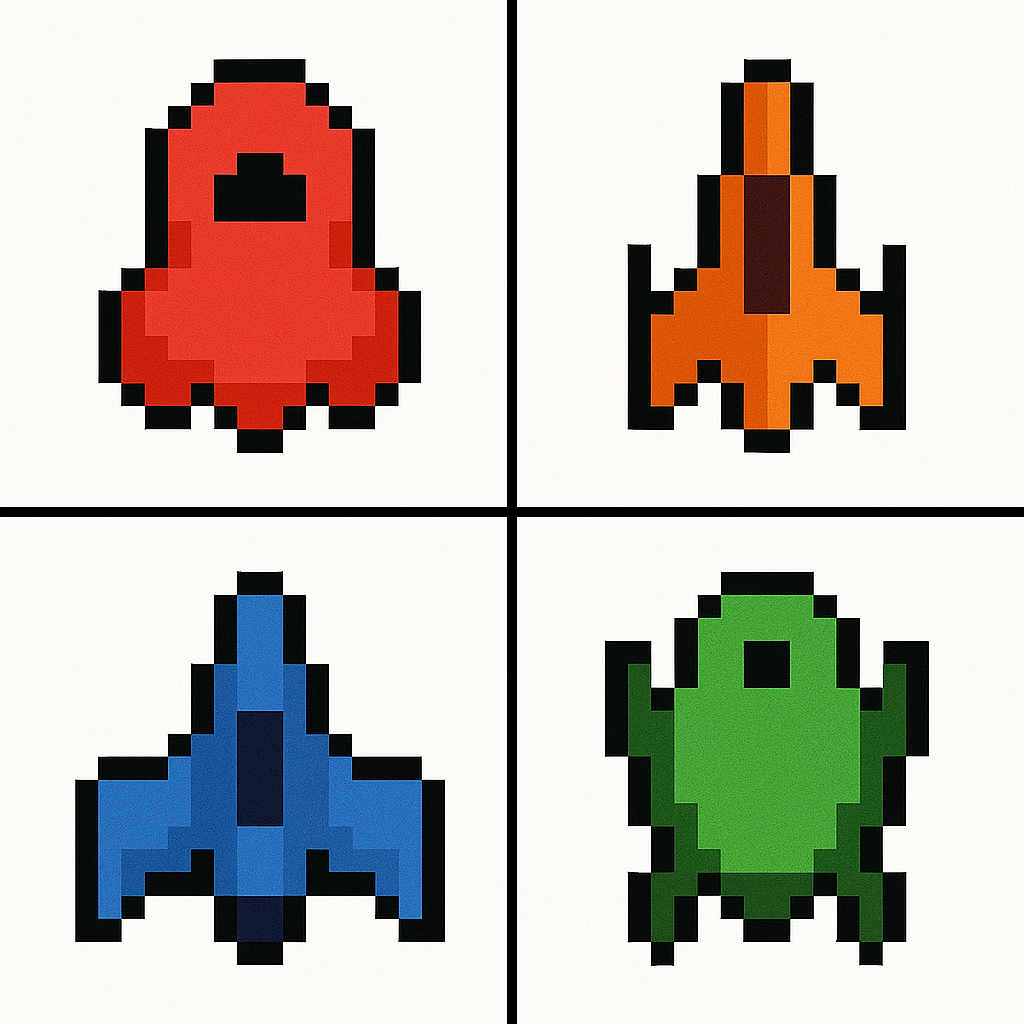
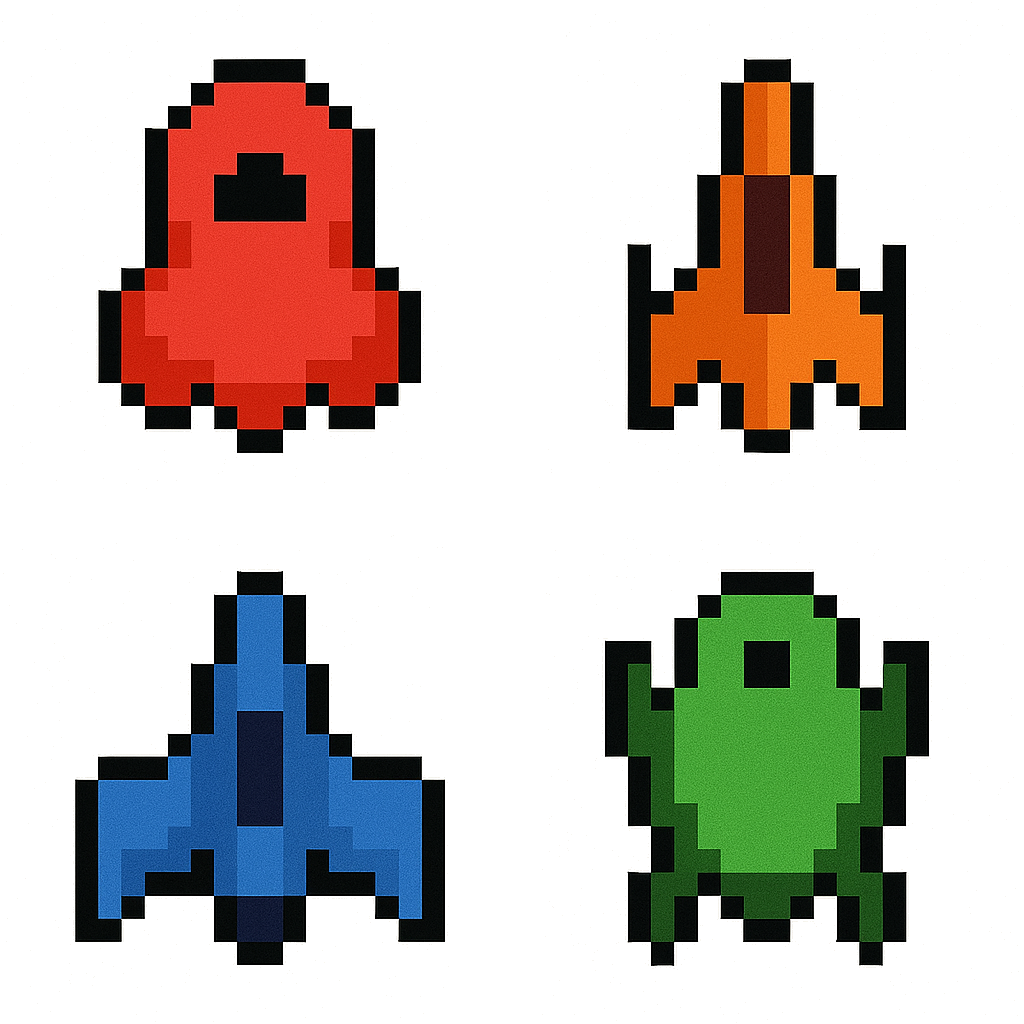
boss戦の追加

Changed region(s): [[0.0, 0.0, 1.0, 1.0]]

diff --git a/spriteLoader.js b/spriteLoader.js
@@ -1,43 +1,85 @@
 export class SpriteSheetLoader {
-    
-  constructor(imagePath, spriteWidth, spriteHeight) {
+  constructor(imagePath, cols, rows) {
     this.image = new Image();
-    this.image.src = imagePath;
-    this.spriteWidth = spriteWidth;
-    this.spriteHeight = spriteHeight;
+    this.cols = cols;
+    this.rows = rows;
     this.loaded = false;
 
-this.image.onload = () => {
-  this.loaded = true;
-  console.log("✅ enemy.png loaded successfully");
-};
-this.image.onerror = () => {
-  console.error("❌ Failed to load enemy.png");
-};
+    this.spriteWidth = 0;
+    this.spriteHeight = 0;
 
+    this.processedImage = null;  // 透過処理済み画像
+
+    this.image.onload = () => {
+      this.spriteWidth = this.image.width / this.cols;
+      this.spriteHeight = this.image.height / this.rows;
+      console.log(`✅ Image loaded: ${this.image.width}x${this.image.height}`);
+      console.log(`🧩 Sprite size: ${this.spriteWidth}x${this.spriteHeight}`);
+
+      // 白背景透過処理
+      this.processedImage = this.removeWhiteBackground(this.image);
+      this.loaded = true;
+    };
+
+    this.image.onerror = () => {
+      console.error("❌ Failed to load image:", imagePath);
+    };
+
+    this.image.src = imagePath;
   }
 
-drawSprite(ctx, spriteIndex, x, y, width, height) {
-  if (!this.loaded) {
-    console.log("❌ Image not loaded yet");
-    return;
+  /**
+   * 白い背景 (#ffffff) を透明にする
+   */
+  removeWhiteBackground(img) {
+    const offCanvas = document.createElement("canvas");
+    offCanvas.width = img.width;
+    offCanvas.height = img.height;
+    const offCtx = offCanvas.getContext("2d");
+
+    offCtx.drawImage(img, 0, 0);
+    const imageData = offCtx.getImageData(0, 0, img.width, img.height);
+    const data = imageData.data;
+
+    for (let i = 0; i < data.length; i += 4) {
+      const r = data[i];
+      const g = data[i + 1];
+      const b = data[i + 2];
+      // 完全な白 (#ffffff) を透明に
+      if (r === 255 && g === 255 && b === 255) {
+        data[i + 3] = 0; // alpha = 0
+      }
+    }
+
+    offCtx.putImageData(imageData, 0, 0);
+
+    // 新しい Image オブジェクトに変換
+    const resultImage = new Image();
+    resultImage.src = offCanvas.toDataURL();
+    return resultImage;
   }
 
-  const cols = Math.floor(this.image.width / this.spriteWidth);
-  const sx = (spriteIndex % cols) * this.spriteWidth;
-  const sy = Math.floor(spriteIndex / cols) * this.spriteHeight;
+  drawSprite(ctx, spriteIndex, x, y, width, height) {
+    this.drawRotatedSprite(ctx, spriteIndex, x, y, width, height, 0);
+  }
 
-  console.log(`🎯 Drawing sprite: index=${spriteIndex}, cols=${cols}`);
-  console.log(`📐 Source: sx=${sx}, sy=${sy}, sw=${this.spriteWidth}, sh=${this.spriteHeight}`);
-  console.log(`🖼 Image size: ${this.image.width}x${this.image.height}`);
-  console.log(`📍 Destination: x=${x}, y=${y}, w=${width}, h=${height}`);
+  drawRotatedSprite(ctx, spriteIndex, x, y, width, height, angleRad) {
+    if (!this.loaded || !this.processedImage) {
+      console.warn("⏳ Image not loaded yet");
+      return;
+    }
 
-  ctx.drawImage(
-    this.image,
-    sx, sy, this.spriteWidth, this.spriteHeight,
-    x, y, width, height
-  );
-}
+    const sx = (spriteIndex % this.cols) * this.spriteWidth;
+    const sy = Math.floor(spriteIndex / this.cols) * this.spriteHeight;
 
-
+    ctx.save();
+    ctx.translate(x + width / 2, y + height / 2);
+    ctx.rotate(angleRad);
+    ctx.drawImage(
+      this.processedImage,
+      sx, sy, this.spriteWidth, this.spriteHeight,
+      -width / 2, -height / 2, width, height
+    );
+    ctx.restore();
+  }
 }

diff --git a/main.js b/main.js
@@ -8,8 +8,9 @@ import { HP } from './hp.js';
 import { Boss } from './boss.js';
 import { Explosion } from './explosion.js';
 import { SpriteSheetLoader } from './spriteLoader.js';
-export const spriteLoader = new SpriteSheetLoader("image/enemy.png", 32, 32); 
-
+import { TitleScreen } from './titleScreen.js';
+export const spriteLoader = new SpriteSheetLoader("image/enemy.png", 2, 2); 
+export const bossSprite = new SpriteSheetLoader("image/dragon.png", 1, 1);
 
 const canvas = document.getElementById("gameCanvas");
 const ctx = canvas.getContext("2d");
@@ -17,6 +18,7 @@ const ctx = canvas.getContext("2d");
 const player = new Player(canvas.width / 2 - 10, canvas.height - 50);
 const score = new Score();
 const hp = new HP(3);
+const titleScreen = new TitleScreen(ctx, ["Start Game", "Exit", "Settings"]);
 
 let bullets = [];
 let enemies = [];
@@ -24,7 +26,6 @@ let boss = null;
 let bossSpawned = false;
 
 let explosions = []; // 爆発エフェクト用
-
 
 let gameState = "title";  // "title", "playing", "gameover", "clear"
 
@@ -36,6 +37,7 @@ setInterval(() => {
     enemies.push(spawnEnemy(canvas.width));
   }
 }, 1000);
+
 
 function update() {
   if (gameState !== "playing") return;
@@ -134,15 +136,12 @@ if (boss) {
 
 }
 
+// 🔁 draw 関数を修正
 function draw() {
-  ctx.clearRect(0, 0, canvas.width, canvas.height); // ← 必ず最初にクリア！
+  ctx.clearRect(0, 0, canvas.width, canvas.height);
 
   if (gameState === "title") {
-    ctx.fillStyle = "white";
-    ctx.font = "28px sans-serif";
-    ctx.fillText("NEO STAR BATTLE", canvas.width / 2 - 140, canvas.height / 2 - 40);
-    ctx.font = "20px sans-serif";
-    ctx.fillText("Press Enter to Start", canvas.width / 2 - 100, canvas.height / 2 + 10);
+    titleScreen.draw();  // ← クラスのメソッドを呼ぶ
     return;
   }
 
@@ -152,7 +151,7 @@ function draw() {
   if (boss) boss.draw(ctx);
   score.draw(ctx);
   hp.draw(ctx, canvas.width);
-  explosions.forEach(e => e.draw(ctx)); // ← ここに移動！
+  explosions.forEach(e => e.draw(ctx));
 
   if (gameState === "gameover") {
     ctx.fillStyle = "white";
@@ -168,6 +167,7 @@ function draw() {
 }
 
 
+
 function loop() {
   if (gameState === "playing") {
     update();
@@ -178,17 +178,25 @@ function loop() {
 
 loop();
 
-document.addEventListener("keydown", (e) => {
-  if (e.code === "Space" && gameState === "playing") {
-    bullets.push(new Bullet(player.x + player.width / 2 - 2, player.y));
-  }
 
-  if (e.code === "Enter") {
-    if (["title", "gameover", "clear"].includes(gameState)) {
+document.addEventListener("keydown", (e) => {
+  if (gameState === "title") {
+    const action = titleScreen.handleKeyDown(e);
+    if (action === "Start Game") resetGame();
+    if (action === "Exit") window.close();
+    if (action === "Settings") console.log("Settings menu not implemented yet.");
+  } else if (gameState === "playing") {
+    if (e.code === "Space") {
+      bullets.push(new Bullet(player.x + player.width / 2 - 2, player.y));
+    }
+  } else if (["gameover", "clear"].includes(gameState)) {
+    if (e.code === "Enter") {
       resetGame();
     }
   }
 });
+
+
 
 function resetGame() {
   player.x = canvas.width / 2 - 10;
@@ -201,3 +209,5 @@ function resetGame() {
   hp.reset();
   gameState = "playing";
 }
+
+

diff --git a/boss.js b/boss.js
@@ -1,3 +1,5 @@
+import { bossSprite } from './main.js'; // ローダーをインポート
+
 export class Boss {
   constructor(canvasWidth) {
     this.x = canvasWidth / 2 - 50;
@@ -6,11 +8,10 @@ export class Boss {
     this.height = 60;
     this.speed = 1.5;
     this.hp = 30;
-    this.color = "purple";
-
-    this.shotInterval = 60; // フレーム単位（例：60 = 約1秒）
-    this.shotTimer = 0;
+    this.spriteIndex = 0;  // 使用するスプライトのインデックス
     this.bullets = [];
+    this.shotInterval = 60;
+    this.shotTimer = 0;
   }
 
   update() {
@@ -24,23 +25,27 @@ export class Boss {
       }
     }
 
-    // ボスの弾を移動
     this.bullets.forEach(b => b.y += b.speed);
     this.bullets = this.bullets.filter(b => b.y < 640);
   }
 
   draw(ctx) {
-    // ボス本体
-    ctx.fillStyle = this.color;
-    ctx.fillRect(this.x, this.y, this.width, this.height);
+    // 🖼 スプライト描画
+    if (bossSprite.loaded) {
+      bossSprite.drawSprite(ctx, this.spriteIndex, this.x, this.y, this.width, this.height);
+    } else {
+      // 読み込み前の代替描画
+      ctx.fillStyle = "purple";
+      ctx.fillRect(this.x, this.y, this.width, this.height);
+    }
 
-    // HPバー
+    // 💉 HPバー
     ctx.fillStyle = "white";
     ctx.fillRect(this.x, this.y - 10, this.width, 5);
     ctx.fillStyle = "red";
     ctx.fillRect(this.x, this.y - 10, (this.hp / 30) * this.width, 5);
 
-    // 弾描画
+    // 🔫 弾描画
     this.bullets.forEach(b => {
       ctx.fillStyle = "orange";
       ctx.fillRect(b.x, b.y, b.width, b.height);
@@ -51,9 +56,9 @@ export class Boss {
     const bulletSpeed = 3;
     const centerX = this.x + this.width / 2;
     this.bullets.push(
-      { x: centerX - 2, y: this.y + this.height, width: 4, height: 10, speed: bulletSpeed },         // 中央
-      { x: centerX - 20, y: this.y + this.height, width: 4, height: 10, speed: bulletSpeed },        // 左
-      { x: centerX + 16, y: this.y + this.height, width: 4, height: 10, speed: bulletSpeed }         // 右
+      { x: centerX - 2, y: this.y + this.height, width: 4, height: 10, speed: bulletSpeed },
+      { x: centerX - 20, y: this.y + this.height, width: 4, height: 10, speed: bulletSpeed },
+      { x: centerX + 16, y: this.y + this.height, width: 4, height: 10, speed: bulletSpeed }
     );
   }
 

diff --git a/titleScreen.js b/titleScreen.js
@@ -1,0 +1,31 @@
+export class TitleScreen {
+  constructor(ctx, buttons) {
+    this.ctx = ctx;
+    this.buttons = buttons;
+    this.selectedIndex = 0;
+  }
+
+  draw() {
+    this.ctx.fillStyle = "white";
+    this.ctx.font = "28px sans-serif";
+    this.ctx.fillText("NEO STAR BATTLE", 80, 150);  // 位置は自由に調整
+
+    this.ctx.font = "20px sans-serif";
+    this.buttons.forEach((label, index) => {
+      this.ctx.fillStyle = index === this.selectedIndex ? "yellow" : "white";
+      const prefix = index === this.selectedIndex ? "> " : "  ";
+      this.ctx.fillText(`${prefix}${label}`, 130, 250 + index * 40);
+    });
+  }
+
+  handleKeyDown(e) {
+    if (e.code === "ArrowUp") {
+      this.selectedIndex = (this.selectedIndex - 1 + this.buttons.length) % this.buttons.length;
+    } else if (e.code === "ArrowDown") {
+      this.selectedIndex = (this.selectedIndex + 1) % this.buttons.length;
+    } else if (e.code === "Enter") {
+      return this.buttons[this.selectedIndex];
+    }
+    return null;
+  }
+}

diff --git a/enemy.js b/enemy.js
@@ -1,4 +1,4 @@
-import { spriteLoader } from './main.js'; // グローバルに読み込んでおく
+import { spriteLoader } from './main.js';
 
 export class Enemy {
   constructor(x, y, type = "normal") {
@@ -44,13 +44,13 @@ export class Enemy {
   }
 
   draw(ctx) {
+
     if (spriteLoader.loaded) {
-      spriteLoader.drawSprite(ctx, this.spriteIndex, this.x, this.y, this.width, this.height);
+      spriteLoader.drawRotatedSprite(ctx, this.spriteIndex, this.x, this.y, this.width, this.height,Math.PI);
     } else {
       // 画像読み込み中のフォールバック表示
       ctx.fillStyle = "red";
       ctx.fillRect(this.x, this.y, this.width, this.height);
-      console.log("Image not loaded yet - showing fallback");
     }
   }
 

diff --git a/game.js b/game.js
@@ -26,6 +26,8 @@ document.addEventListener("keyup", (e) => {
   keys[e.code] = false;
 });
 
+
+
 // 弾を発射
 function shoot() {
   bullets.push({
